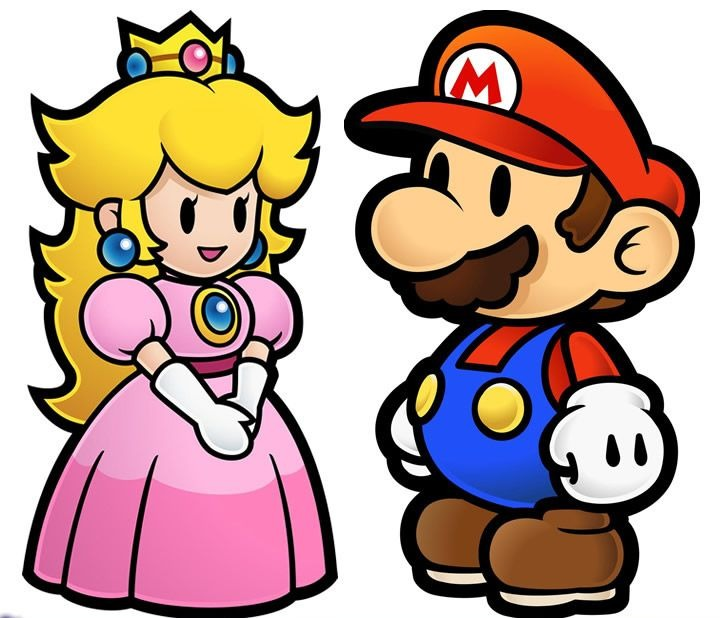
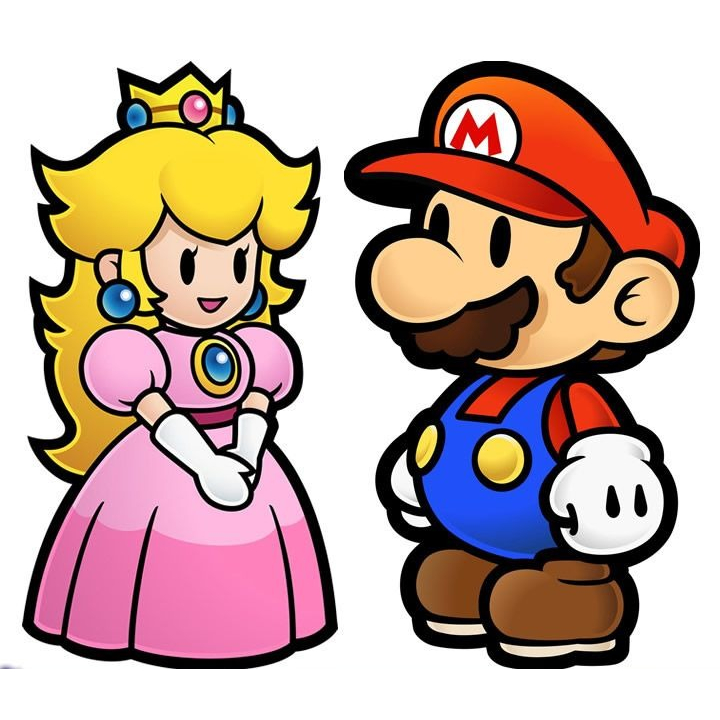
+ Ajuste a paper Mario

diff --git a/static/js/index.js b/static/js/index.js
@@ -131,7 +131,7 @@ function movimiento() {
     }
 
     if (flor) {
-        $(id_nueva).attr('src', 'static/images/mario_flor.png');
+        $(id_nueva).attr('src', 'static/images/mario_flor_paper.png');
 
     } else {
         $(id_nueva).attr('src', 'static/images/mario.png');
